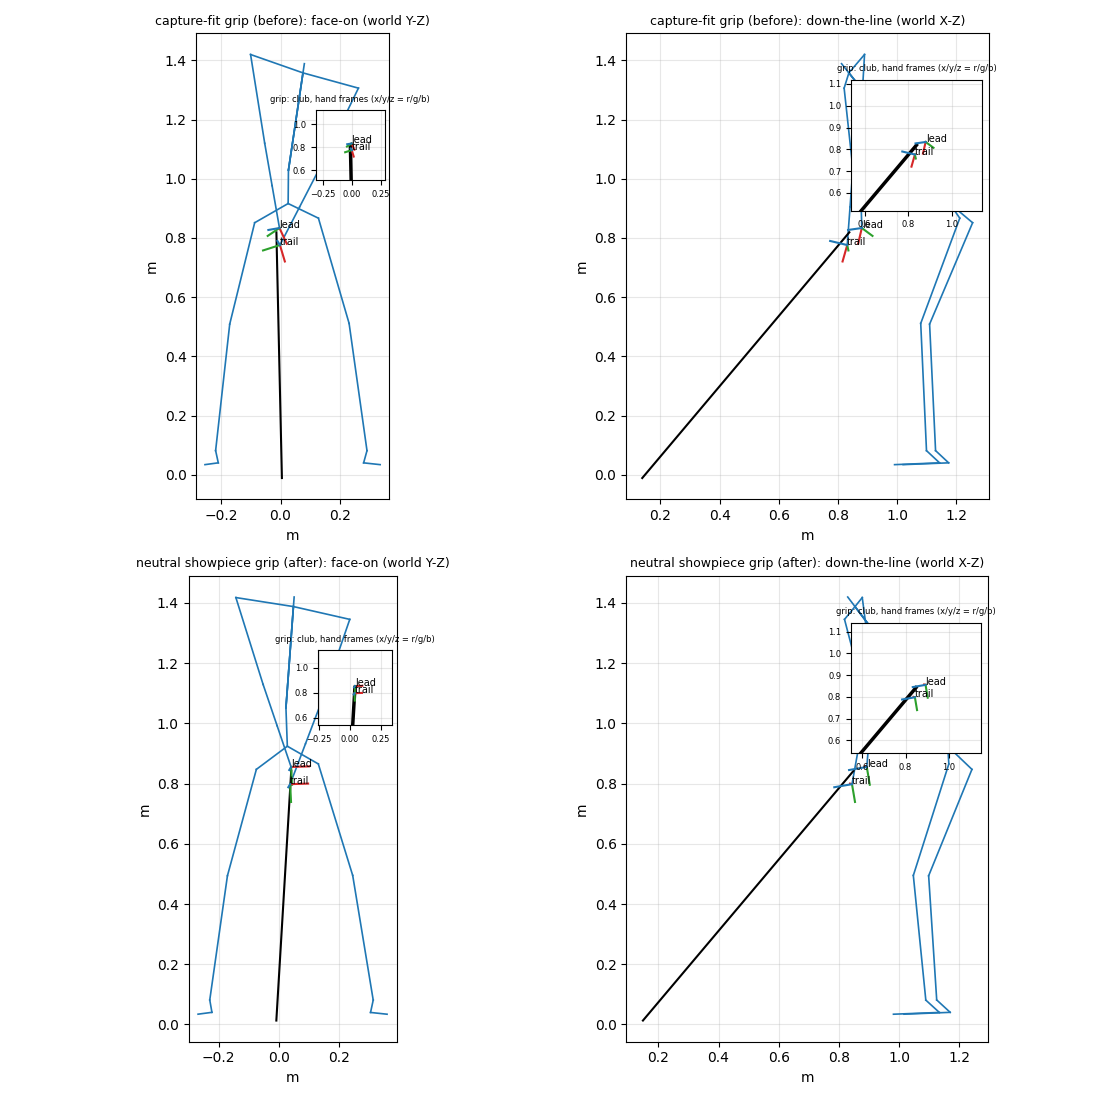
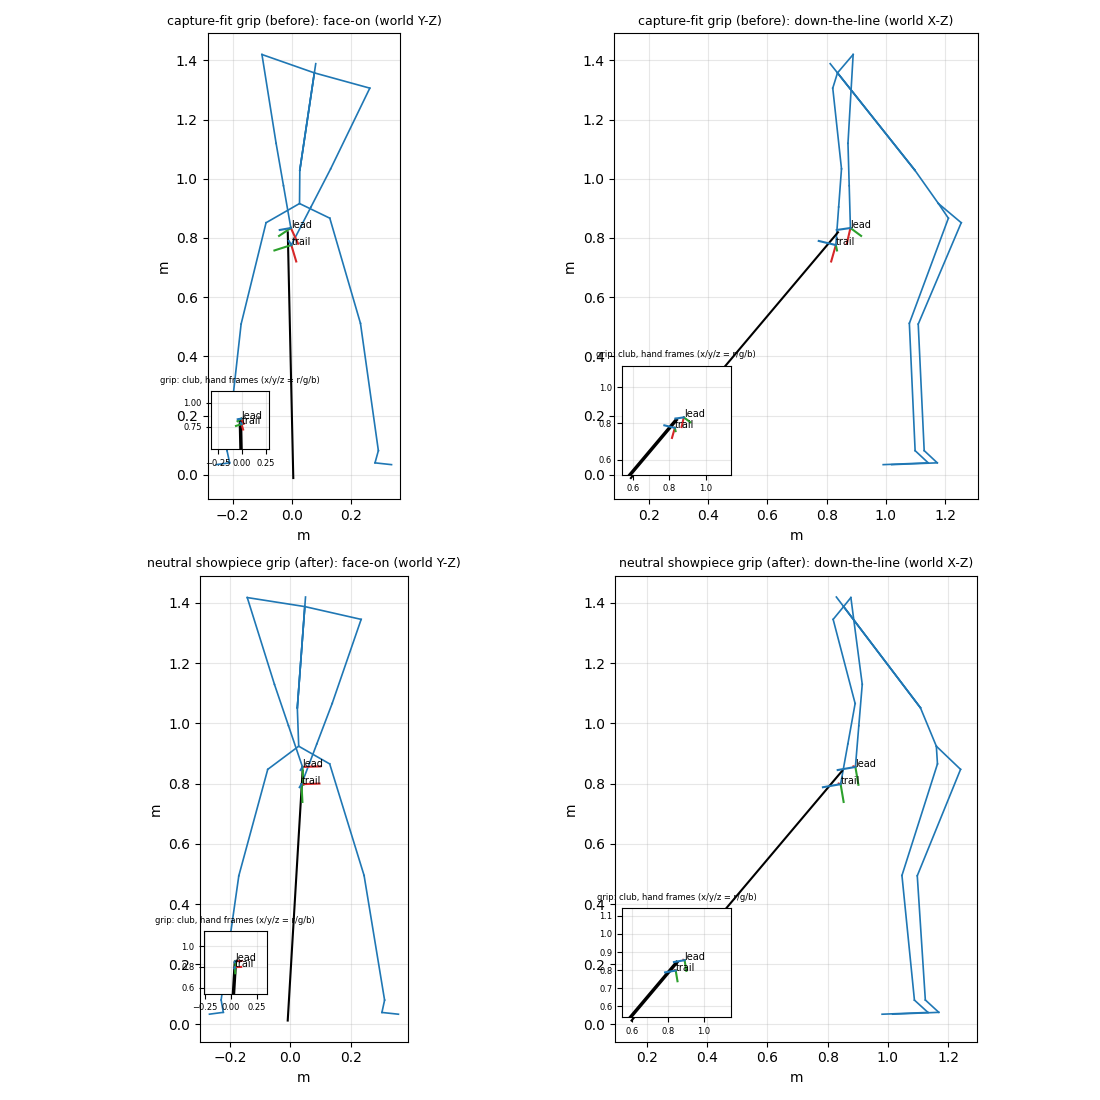
fix(c7): resolve club sites from the export's frame_sites, reuse HAND_BODY_SUFFIX (Part of #14563)

diff --git a/docs/development/full_body_models/evidence/showpiece_render/c7/render_address_stills.py b/docs/development/full_body_models/evidence/showpiece_render/c7/render_address_stills.py
@@ -26,16 +26,16 @@ import numpy as np  # noqa: E402
 from src.engines.physics_engines.mujoco.python.full_body_mjcf import (  # noqa: E402
     export_full_body_mjcf,
 )
+from src.shared.python.contracts import require  # noqa: E402
 from src.shared.python.motion_matching.address_pose import address_qpos  # noqa: E402
+from src.shared.python.motion_matching.execution.grip_rotation import (  # noqa: E402
+    HAND_BODY_SUFFIX,
+)
 
 #: View name -> (horizontal, vertical) world axes; world Z is up.  The feet are
 #: apart along Y, so Y-Z is the face-on view and X-Z the down-the-line view.
 VIEWS = {"face-on (world Y-Z)": (1, 2), "down-the-line (world X-Z)": (0, 2)}
-CLUB_SITES = ("native_frame_16", "native_frame_15")  # Grip, Clubhead
-HAND_BODIES = {  # hand frame bodies of the lead and trail hand
-    "lead": "Clubface Vector",
-    "trail": "RHandStandoff",
-}
+CLUB_FRAMES = ("Grip", "Clubhead")  # frame names; sites come from the export
 AXIS_COLOURS = ("tab:red", "tab:green", "tab:blue")
 AXIS_LENGTH_M = 0.06
 
@@ -61,7 +61,7 @@ def _body_id(model: mujoco.MjModel, suffix: str) -> int:
 
 def pose_of(run: Path) -> Pose:
     """Address pose of an address-only run directory."""
-    xml, _ = export_full_body_mjcf(
+    xml, meta = export_full_body_mjcf(
         (run / "full_body_spec_hipcal_scaled.json").read_bytes()
     )
     model = mujoco.MjModel.from_xml_string(xml)
@@ -73,9 +73,14 @@ def pose_of(run: Path) -> Pose:
     links = np.array(
         [(model.body_parentid[b], b) for b in range(2, model.nbody)], dtype=int
     )
-    sites = [mujoco.mj_name2id(model, mujoco.mjtObj.mjOBJ_SITE, n) for n in CLUB_SITES]
+    sites = [
+        mujoco.mj_name2id(model, mujoco.mjtObj.mjOBJ_SITE, meta["frame_sites"][name])
+        for name in CLUB_FRAMES
+    ]
+    require(min(sites) >= 0, f"export has no site for frames {CLUB_FRAMES}", sites)
     hands = {}
-    for name, suffix in HAND_BODIES.items():
+    for name, side in ("lead", "L"), ("trail", "R"):
+        suffix = HAND_BODY_SUFFIX[side]
         b = _body_id(model, suffix)
         hands[name] = (np.array(data.xpos[b]), np.array(data.xmat[b]).reshape(3, 3))
     return Pose(np.array(data.xpos), links, np.array(data.site_xpos[sites]), hands)
@@ -111,7 +116,7 @@ def render_figure(rows: dict[str, Pose], out: Path) -> Path:
             ax.set_title(f"{label}: {view}", fontsize=9)
             ax.set_xlabel("m")
             ax.set_ylabel("m")
-            inset = ax.inset_axes((0.62, 0.55, 0.36, 0.42))
+            inset = ax.inset_axes((0.02, 0.02, 0.30, 0.30))
             _draw(inset, pose, h, v, detail=True)
             centre = pose.club[0]
             inset.set_xlim(centre[h] - 0.3, centre[h] + 0.3)
